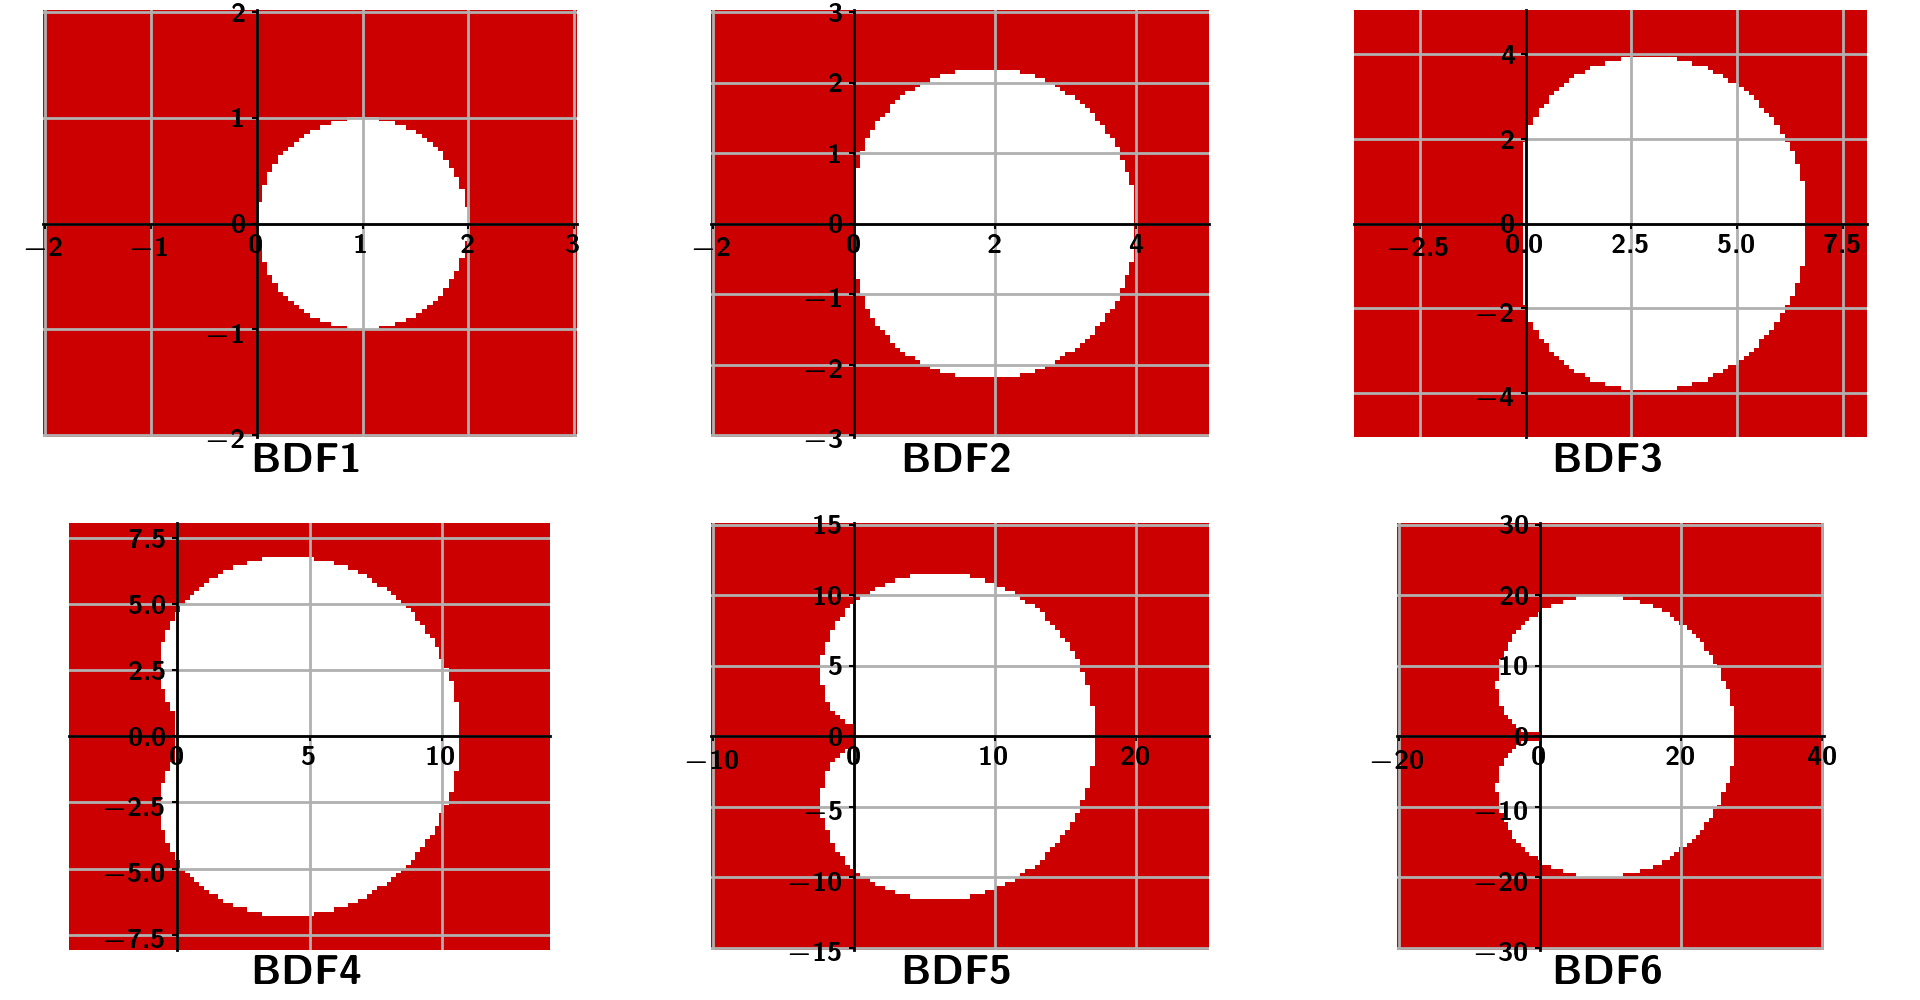
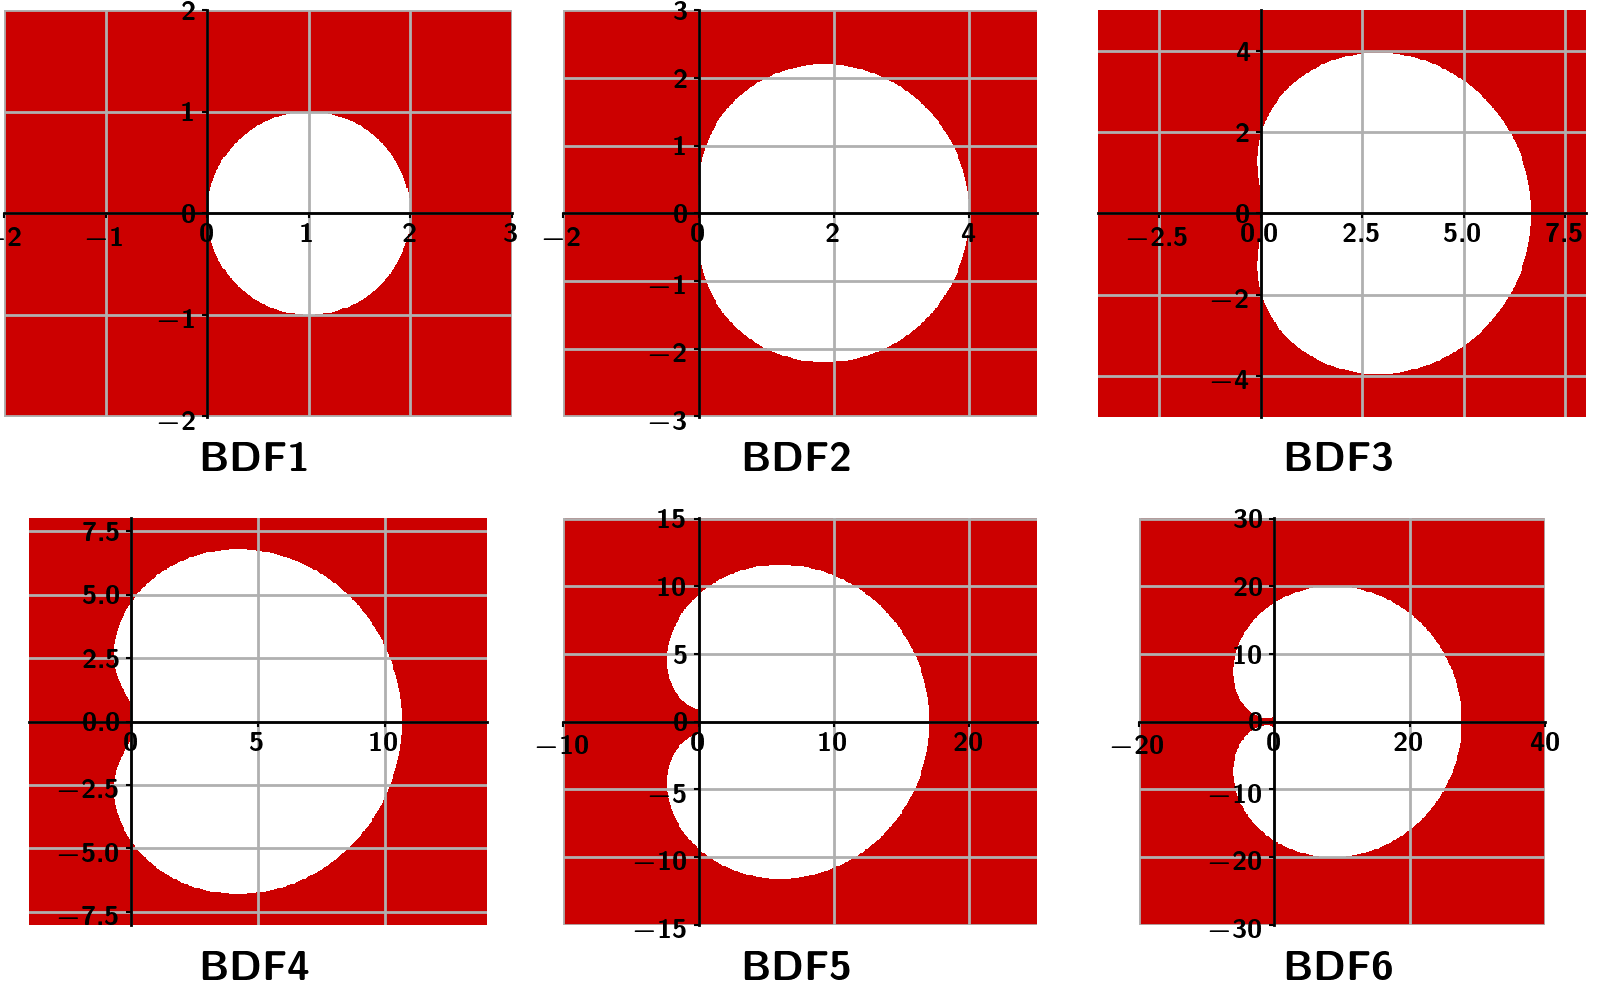
Cleanup figs matplotlib

Changed region(s): [[0.0, 0.0, 0.6562, 0.992], [0.6875, 0.0, 1.0, 0.992], [0.4062, 0.0, 0.4688, 0.031]]

diff --git a/figures/figures_matplotlib.py b/figures/figures_matplotlib.py
@@ -19,7 +19,6 @@ plt.rcParams.update({
     'grid.linewidth': 2,
     'legend.fontsize': 20,
     'legend.labelspacing': 1,
-    'lines.markeredgewidth': 15,
     'lines.markersize': 3,
     'lines.linewidth': 3,
     'text.latex.preamble': r"\usepackage{amsmath}",
@@ -110,7 +109,7 @@ def fig_bdf():
 
         return np.vectorize(sub_r)
 
-    fig = plt.figure(figsize=(19.20, 10.00))
+    fig = plt.figure(figsize=(16, 10))
     c = [.8, .0, .0, 1]
     for (i, x_min, x_max, y_min, y_max) in zip((1, 2, 3, 4, 5, 6),
                                                (-2, -2, -4, -4, -10, -20),
@@ -118,8 +117,8 @@ def fig_bdf():
                                                (-2, -3, -5, -8, -15, -30),
                                                (2, 3, 5, 8, 15, 30),
                                                ):
-        res_x = 100
-        res_y = 100
+        res_x = 500
+        res_y = 500
 
         x, y = np.meshgrid(np.linspace(x_min, x_max, res_x), np.linspace(y_min, y_max, res_y))
 
@@ -138,10 +137,10 @@ def fig_bdf():
         rk_i = r(i)(x + 1j * y)
         ax.pcolormesh(x, y, np.ma.masked_array(rk_i, mask=1 - rk_i), cmap=clr.ListedColormap([c]), shading='auto')
         ax.plot([None], '--', c=c, lw=20)
-        ax.set_title(r'\textbf{{ BDF{0} }}'.format(i), y=-.1, fontsize=30)
+        ax.set_title(r'\textbf{{ BDF{0} }}'.format(i), y=-.1, fontsize=30, pad=-10)
         ax.grid(True)
 
-    plt.subplots_adjust(0.00, 0.05, 1.0, 0.99, 0.05, 0.2)
+    plt.subplots_adjust(0.00, 0.075, 1.0, 0.99, 0.05, 0.25)
     # plt.show()
     plt.savefig("bdf_stab.png", transparent=True)
 
@@ -234,7 +233,7 @@ def fig_preconditioning():
 
     counter = GMRESCounter()
     gmres_scipy(a, np.ones(n), callback=counter, maxiter=12)
-    l1, = ax2.semilogy(counter.res, '+', label=r'$\kappa\left(A\right) = {0:0.2f}$'.format(cond_a))
+    ax2.semilogy(counter.res, '+', label=r'$\kappa\left(A\right) = {0:0.2f}$'.format(cond_a), mew=15)
 
     jacobi = scipy.sparse.diags(1 / a.diagonal())
 
@@ -245,7 +244,7 @@ def fig_preconditioning():
 
     counter = GMRESCounter()
     gmres_scipy(a_prec, np.ones(n), callback=counter, maxiter=12)
-    l2, = ax2.semilogy(counter.res, 'x', label=r'$\kappa\left(A_{{pre}}\right) = {0:0.2f}$'.format(cond_a_pre))
+    ax2.semilogy(counter.res, 'x', label=r'$\kappa\left(A_{{pre}}\right) = {0:0.2f}$'.format(cond_a_pre), mew=15)
 
     ax2.legend(loc='lower center', bbox_to_anchor=(-0.75, -0.075))
 
